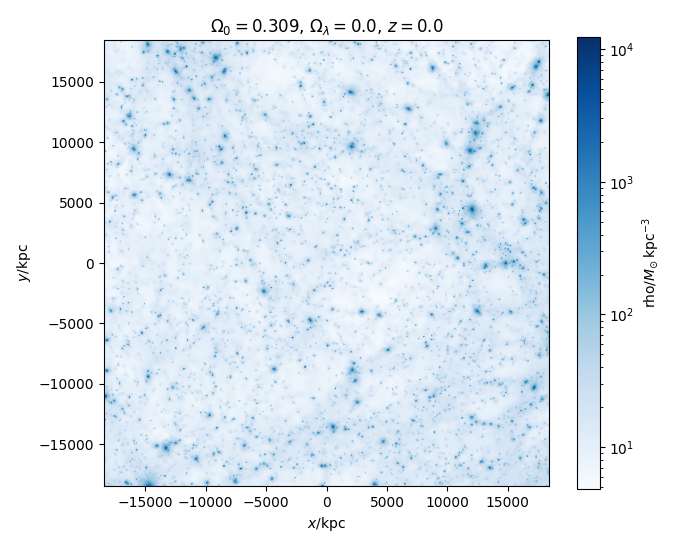
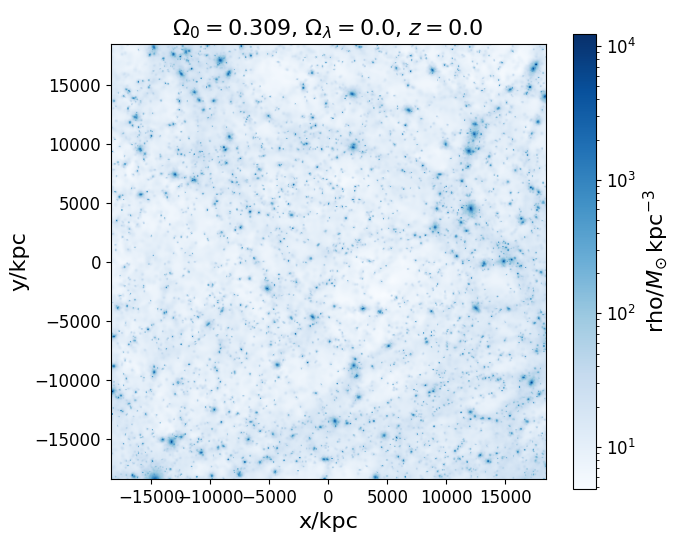
DensMap FontSize

diff --git a/WorkingData/Density_Map.py b/WorkingData/Density_Map.py
@@ -12,14 +12,29 @@ print ("Librerias Lista")
 #GENERAR FIGURA PARA EL PLOT
 fig, ax = plt.subplots(1, 1, sharex= True, sharey= True, figsize=(6.8,5.5)  )
 
+LEGEND_SIZE= 10
+TICK_SIZE = 12
+DEFAULT=6
+SMALL_SIZE = 12
+MEDIUM_SIZE = 16
+BIGGER_SIZE = 14
+
+plt.rc('font', size=DEFAULT)          # controls default text sizes
+plt.rc('axes', titlesize=MEDIUM_SIZE)     # fontsize of the axes title
+plt.rc('axes', labelsize=MEDIUM_SIZE)    # fontsize of the x and y labels
+plt.rc('xtick', labelsize=SMALL_SIZE)    # fontsize of the tick labels
+plt.rc('ytick', labelsize=SMALL_SIZE)    # fontsize of the tick labels
+plt.rc('legend', fontsize=LEGEND_SIZE)    # legend fontsize
+plt.rc('figure', titlesize=BIGGER_SIZE)  # fontsize of the figure title
+
 print ("Figura Lista")
 
 #Ubicacion de los archivos
-sim = 'RunHighLam'
+sim = 'RunLow0'
 arcNameG4 = "/home/martin/Documentos/Tesis/WorkingData/StandardResolution/"+sim+"/snapshot/"
 
 #Cargar Snapshots
-snap17 = pnb.load(filename= arcNameG4 + "snapshot_033.hdf5")
+snap17 = pnb.load(filename= arcNameG4 + "snapshot_027.hdf5")
 print ("Cargar snapshots Lista")
 
 #Tratar en umidades fisicas
@@ -50,7 +65,13 @@ print ("Inicio Plotting: ", nameParam)
 sph.image(snap17, qty="rho", width = bxs * 0.50, cmap="Blues", av_z=True, title=nameParam, subplot= ax, show_cbar=True, clear = True, resolution=500)    # type: ignore
 
 #Mostrar Plots
-fig.tight_layout()                                                                      #Ajustar Plot
+ax.set_xlabel('x/kpc', fontsize=MEDIUM_SIZE)
+ax.set_ylabel('y/kpc', fontsize=MEDIUM_SIZE)
+ax.tick_params(axis='x', labelsize=TICK_SIZE)
+ax.tick_params(axis='y', labelsize=TICK_SIZE)
+
+fig.tight_layout()   #Ajustar Plot
+
 ImageFileName ='Documento/images/'+sim+'/'+sim+'Z'+str(round(redshiftZ,1))+'.png'
 fig.savefig(ImageFileName)                                                              #Guardar Plot en PNG
 # plt.show()                                                                            #Mostrar Plot
